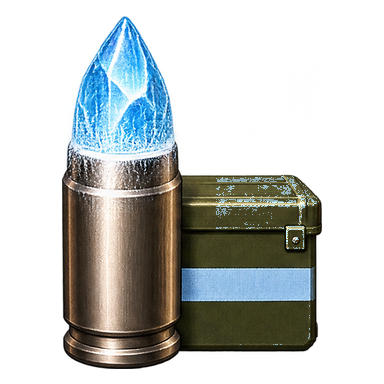
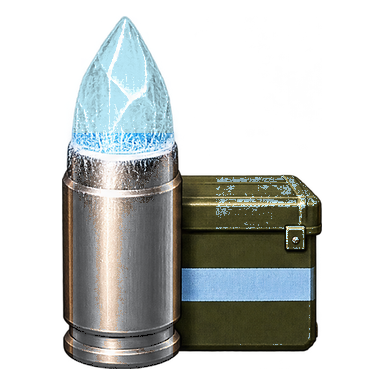
Боеприпасы в инвентаре: гильзы светлое серебро, наконечники и полоски в пастельных цветах игры, ящик не задет

Changed region(s): [[0.1875, 0.4062, 0.4688, 0.9688], [0.1875, 0.0312, 0.4688, 0.3438]]

diff --git a/tools/art/pastel_inventory.py b/tools/art/pastel_inventory.py
@@ -30,6 +30,13 @@ def paint(a, mask, target, keep_value=True):
         a[y, x, :3] = (r * 255, g * 255, b * 255)
     return a
 
+def silver(a, mask, light=.92):
+    """Light silver: keep the shading, drop the colour, lift the value a little."""
+    lum = a[..., :3] @ np.array([.3, .59, .11])
+    v = np.clip(lum * .82 + 255 * .2, 0, 255) * light / .92
+    for k, tint in enumerate((.99, 1.0, 1.02)):
+        a[..., k] = np.where(mask, np.clip(v * tint, 0, 255), a[..., k])
+
 def source(name):
     SRC.mkdir(parents=True, exist_ok=True)
     keep = SRC / name
@@ -59,8 +66,28 @@ def ammo():
         hsv = to_hsv(a)
         xx = np.mgrid[0:h, 0:w][1]
         stripe = (a[..., 3] > 30) & (xx > w * .56) & (hsv[..., 1] > .5) & (hsv[..., 2] > .3)
-        if stripe.sum() < 30: continue
-        a = paint(a, stripe, pastel(rgb(hexc)))
+        if stripe.sum() >= 30: a = paint(a, stripe, pastel(rgb(hexc)))
+        # The cartridge (author, 3 Oct): light silver casing, the tip in a calm pastel of the effect colour.
+        yy = np.mgrid[0:h, 0:w][0]
+        # The cartridge is the column of pixels standing above the box top; the box behind it is left alone.
+        solid = a[..., 3] > 30
+        # column tops: the cartridge columns reach far higher than the half-height box
+        tops = np.where(solid.any(axis=0), solid.argmax(axis=0), h)
+        bottom_all = h - 1 - solid[::-1].argmax(axis=0).max()
+        reach = (h - tops) / max(1, h - tops.min())
+        cols = reach > .72
+        cart = solid & cols[None, :]
+        ys = np.nonzero(cart)[0]
+        if len(ys):
+            top, bottom = ys.min(), ys.max()
+            nose = .42 if kind in ("cluster", "napalm") else .33
+            tip = cart & (yy < top + (bottom - top) * nose)
+            # only the warm brass of the casing, not the olive box behind it
+            brass = (hsv[..., 0] > .05) & (hsv[..., 0] < .17) & (hsv[..., 1] > .25)
+            casing = cart & ~tip & brass
+            silver(a, casing)
+            if kind != "standard": a = paint(a, tip & (hsv[..., 1] > .2), pastel(rgb(hexc), .3))
+            else: a = paint(a, tip & (hsv[..., 1] > .2), pastel(rgb("c98a5e"), .3))   # soft copper
         Image.fromarray(np.clip(a, 0, 255).astype("uint8")).save(SYM / name, optimize=True)
 
 if __name__ == "__main__":
